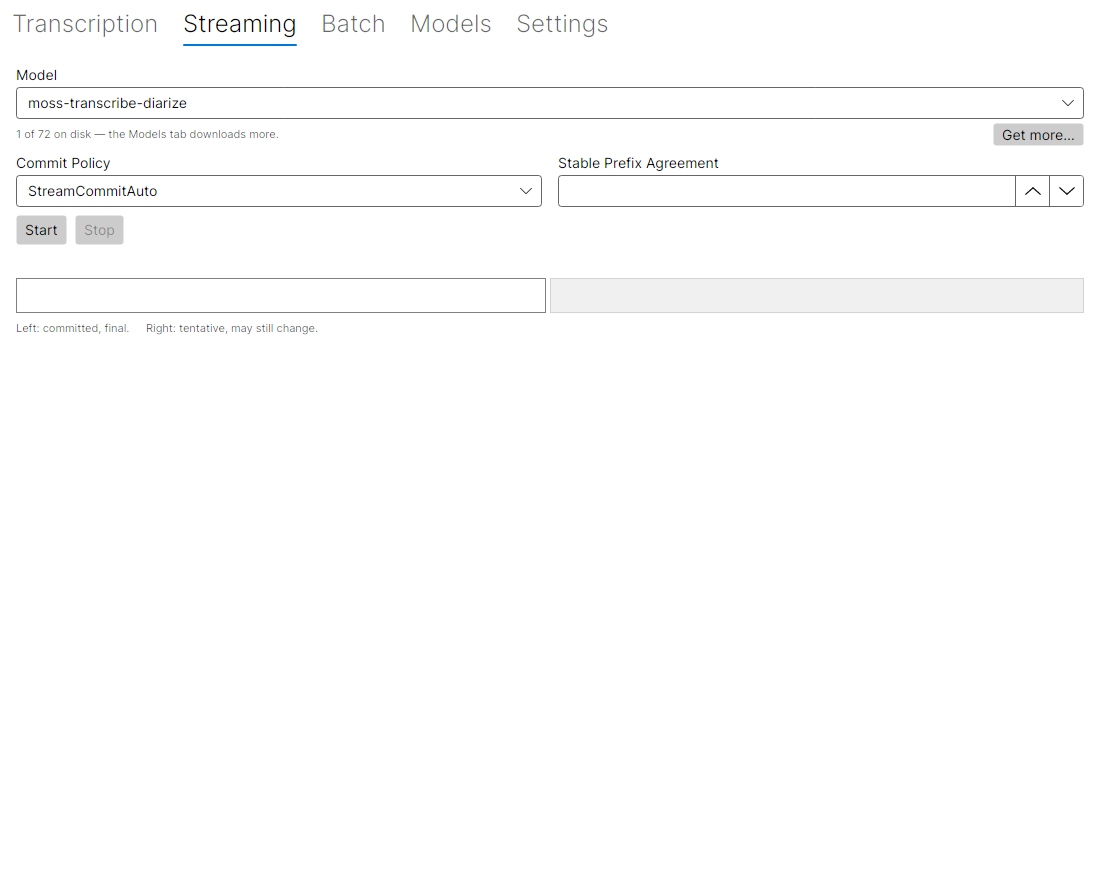
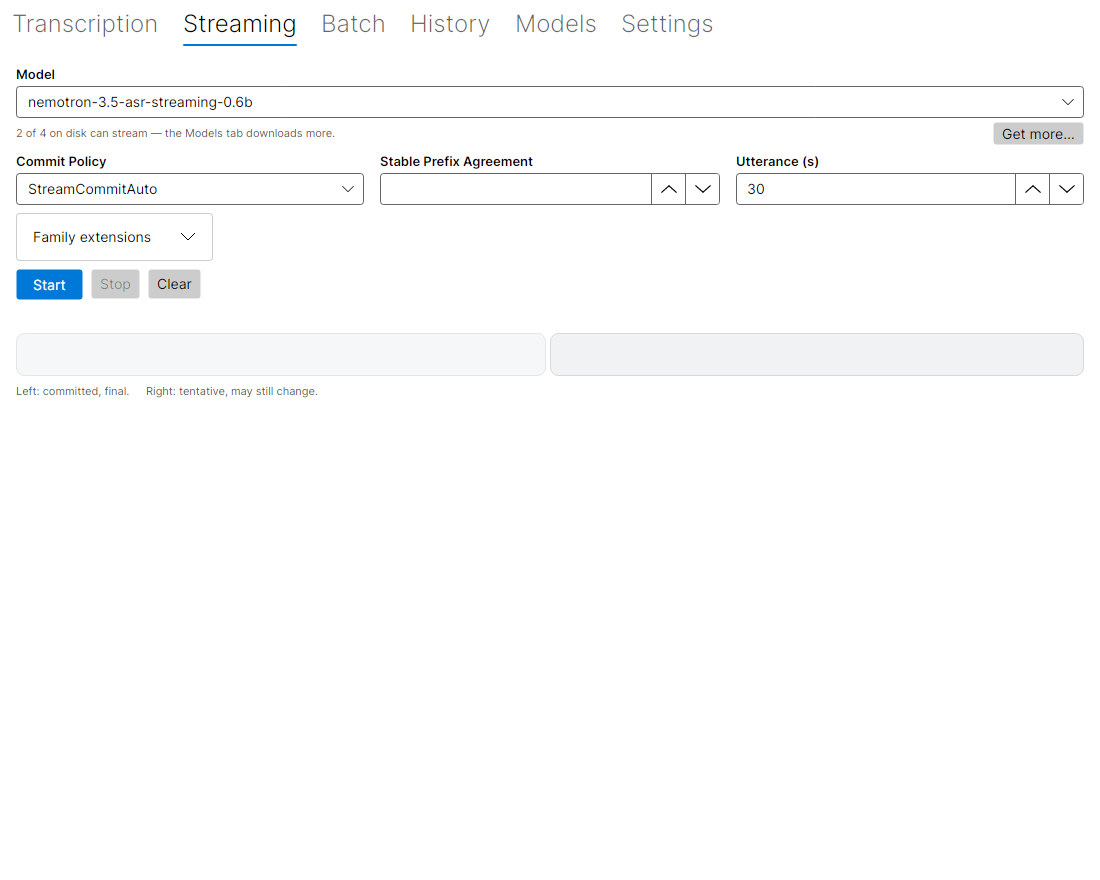
docs: regenerate the UI screenshots, including History
The committed images predate the vocabulary field, the language names, Cancel,
Copy, the About section and the History tab, and the Models one still showed the
size filter's record where its label should be.

The generator's tab list was also out of step with MainWindow: History sits between
Batch and Models, and the missing name shifted every later suffix onto the wrong
tab. With the list corrected it writes ui-history.png as well, and the page uses
it under the History heading. What the pictures show is machine-dependent by
design: the cache this machine has, its devices, the model each tab last ran, and
an empty history here.

diff --git a/samples/UIScreenshot/Program.cs b/samples/UIScreenshot/Program.cs
@@ -33,7 +33,7 @@ internal static class Program
     /// Tab order as MainWindow.axaml declares it; the name is the file suffix.
     /// </summary>
     private static readonly string[] Tabs =
-        ["transcription", "streaming", "batch", "models", "settings"];
+        ["transcription", "streaming", "batch", "history", "models", "settings"];
 
     [STAThread]
     public static void Main(string[] args)

diff --git a/docs/ui.md b/docs/ui.md
@@ -305,6 +305,8 @@ download the model first.
 
 ### History
 
+![The History tab.]({{ '/assets/images/ui-history.png' | relative_url }})
+
 Every finished transcription is saved on this machine, so closing the app does not lose it.
 The file holds the transcript and the few facts that name it — audio path, model, language,
 requested diarization, window, date — under `<cache>/../history`, beside the log and the
